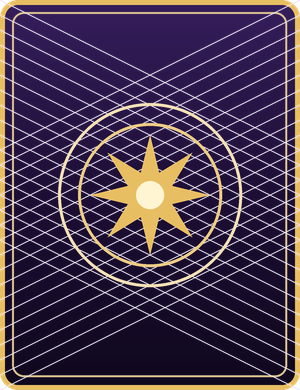
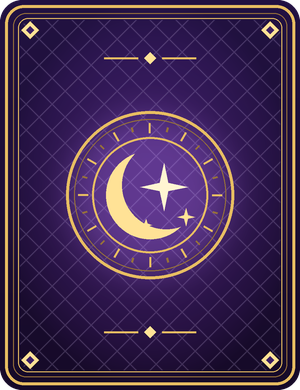
Batch 184: ornate summon card back
- tools/gen_card_back.py: ornate summon card back (moon-and-star medallion, gold frames, lattice)

diff --git a/tools/gen_card_back.py b/tools/gen_card_back.py
@@ -1,0 +1,85 @@
+#!/usr/bin/env python3
+"""Draws art/ui/card_back.png (300x390): the back of a summon card.
+Purple field with a diamond lattice, triple gold frame, corner diamonds and a moon-and-star medallion.
+Run from the project root:  python3 tools/gen_card_back.py   (needs Pillow)
+"""
+import math
+
+from PIL import Image, ImageDraw, ImageFilter
+
+W, H, S = 300, 390, 3   # S = supersampling
+GOLD, GOLD2, DIM = (232, 190, 98, 255), (255, 226, 150, 255), (150, 112, 58, 255)
+
+
+def main():
+    w, h = W * S, H * S
+    img = Image.new('RGBA', (w, h), (0, 0, 0, 0))
+    base = Image.new('RGBA', (w, h))
+    px = base.load()
+    for y in range(h):
+        t = y / h
+        r, g, b = 34 - 12 * t, 18 - 8 * t, 66 - 26 * t
+        for x in range(w):
+            dx, dy = (x - w / 2) / (w / 2), (y - h / 2) / (h / 2)
+            k = max(0.0, 1.0 - (dx * dx + dy * dy)) * 0.55
+            px[x, y] = (min(255, int(r + 60 * k)), min(255, int(g + 26 * k)), min(255, int(b + 88 * k)), 255)
+    mask = Image.new('L', (w, h), 0)
+    ImageDraw.Draw(mask).rounded_rectangle((0, 0, w - 1, h - 1), radius=22 * S, fill=255)
+    img.paste(base, (0, 0), mask)
+    lat = Image.new('RGBA', (w, h), (0, 0, 0, 0))
+    ld = ImageDraw.Draw(lat)
+    for i in range(-h, w + h, 26 * S):
+        ld.line((i, 0, i + h, h), fill=(200, 160, 255, 26), width=S)
+        ld.line((i, h, i + h, 0), fill=(200, 160, 255, 26), width=S)
+    fm = Image.new('L', (w, h), 0)
+    ImageDraw.Draw(fm).rounded_rectangle((20 * S, 20 * S, w - 20 * S, h - 20 * S), radius=12 * S, fill=255)
+    img.paste(lat, (0, 0), Image.composite(lat.split()[3], Image.new('L', (w, h), 0), fm))
+    d = ImageDraw.Draw(img)
+    d.rounded_rectangle((5 * S, 5 * S, w - 5 * S, h - 5 * S), radius=19 * S, outline=GOLD, width=3 * S)
+    d.rounded_rectangle((13 * S, 13 * S, w - 13 * S, h - 13 * S), radius=13 * S, outline=DIM, width=S)
+    d.rounded_rectangle((18 * S, 18 * S, w - 18 * S, h - 18 * S), radius=10 * S, outline=GOLD, width=S)
+    for cx, cy in [(30, 30), (W - 30, 30), (30, H - 30), (W - 30, H - 30)]:
+        cx, cy, r, r2 = cx * S, cy * S, 9 * S, 4 * S
+        d.polygon([(cx, cy - r), (cx + r, cy), (cx, cy + r), (cx - r, cy)], fill=GOLD2, outline=DIM)
+        d.polygon([(cx, cy - r2), (cx + r2, cy), (cx, cy + r2), (cx - r2, cy)], fill=(60, 30, 100, 255))
+    cx, cy = w // 2, h // 2
+    glow = Image.new('RGBA', (w, h), (0, 0, 0, 0))
+    ImageDraw.Draw(glow).ellipse((cx - 96 * S, cy - 96 * S, cx + 96 * S, cy + 96 * S), fill=(190, 130, 255, 70))
+    img = Image.alpha_composite(img, glow.filter(ImageFilter.GaussianBlur(22 * S)))
+    d = ImageDraw.Draw(img)
+    for rr, wd, col in [(84, 3, GOLD), (76, 1, DIM), (58, 2, GOLD)]:
+        d.ellipse((cx - rr * S, cy - rr * S, cx + rr * S, cy + rr * S), outline=col, width=wd * S)
+    for k in range(24):
+        a = k * math.tau / 24
+        r1, r2 = (62 * S, 72 * S) if k % 2 == 0 else (65 * S, 70 * S)
+        d.line((cx + math.cos(a) * r1, cy + math.sin(a) * r1, cx + math.cos(a) * r2, cy + math.sin(a) * r2),
+               fill=GOLD if k % 2 == 0 else DIM, width=2 * S)
+    moon = Image.new('L', (w, h), 0)
+    md = ImageDraw.Draw(moon)
+    md.ellipse((cx - 44 * S, cy - 44 * S, cx + 44 * S, cy + 44 * S), fill=255)
+    md.ellipse((cx - 28 * S, cy - 54 * S, cx + 60 * S, cy + 34 * S), fill=0)
+    img.paste(Image.new('RGBA', (w, h), GOLD2), (0, 0), moon)
+    d = ImageDraw.Draw(img)
+
+    def star(sx, sy, big, small, col):
+        pts = []
+        for k in range(8):
+            a = -math.pi / 2 + k * math.pi / 4
+            q = big if k % 2 == 0 else small
+            pts.append((sx + math.cos(a) * q, sy + math.sin(a) * q))
+        d.polygon(pts, fill=col)
+
+    star(cx + 14 * S, cy - 8 * S, 24 * S, 6 * S, (255, 245, 210, 255))
+    star(cx + 36 * S, cy + 22 * S, 9 * S, 2.5 * S, GOLD2)
+    star(cx - 4 * S, cy + 30 * S, 6 * S, 2 * S, GOLD2)
+    for sy in (58, H - 58):
+        y, r = sy * S, 6 * S
+        d.line((cx - 46 * S, y, cx - 12 * S, y), fill=GOLD, width=2 * S)
+        d.line((cx + 12 * S, y, cx + 46 * S, y), fill=GOLD, width=2 * S)
+        d.polygon([(cx, y - r), (cx + r, y), (cx, y + r), (cx - r, y)], fill=GOLD2)
+    img.resize((W, H), Image.Resampling.LANCZOS).save('art/ui/card_back.png')
+    print('art/ui/card_back.png written')
+
+
+if __name__ == '__main__':
+    main()

diff --git a/tools/gen_ui_kit.py b/tools/gen_ui_kit.py
@@ -249,5 +249,6 @@ for k in range(16):
 d.polygon(star, fill=(232, 190, 98, 255))
 d.ellipse((cx - 14 * SS, cy - 14 * SS, cx + 14 * SS, cy + 14 * SS), fill=(255, 245, 210, 255))
 card.alpha_composite(Image.composite(card, card, m)) if False else None
-save(card, 'card_back.png', (300, 390))
+# the summon card back is drawn by tools/gen_card_back.py (ornate version); do not overwrite it here
+# save(card, 'card_back.png', (300, 390))
 print("card back written")

diff --git a/ANALISA_DAN_UPDATE_V2.md b/ANALISA_DAN_UPDATE_V2.md
@@ -1228,6 +1228,12 @@ tools/
 2. Tambahkan entri di `DB.HEROES` (rarity, role, hp/atk/def, skill: aim, shape, mult, efek).
 3. (Opsional) tambah voice line di `DB.HERO_LINES`.
 
+## 2gj. Update batch 184 — Punggung kartu summon baru
+
+Batch perbaikan tampilan (tanpa fitur baru).
+
+- `tools/gen_card_back.py` menggambar `art/ui/card_back.png` (300×390): bidang ungu dengan kisi berlian, tiga bingkai emas, berlian sudut, medali bulan sabit + bintang. `gen_ui_kit.py` tidak lagi menimpa file itu.
+
 ## 2gi. Update batch 183 — Percikan sentuh dan getaran
 
 Batch perbaikan interaksi (tanpa fitur baru).
